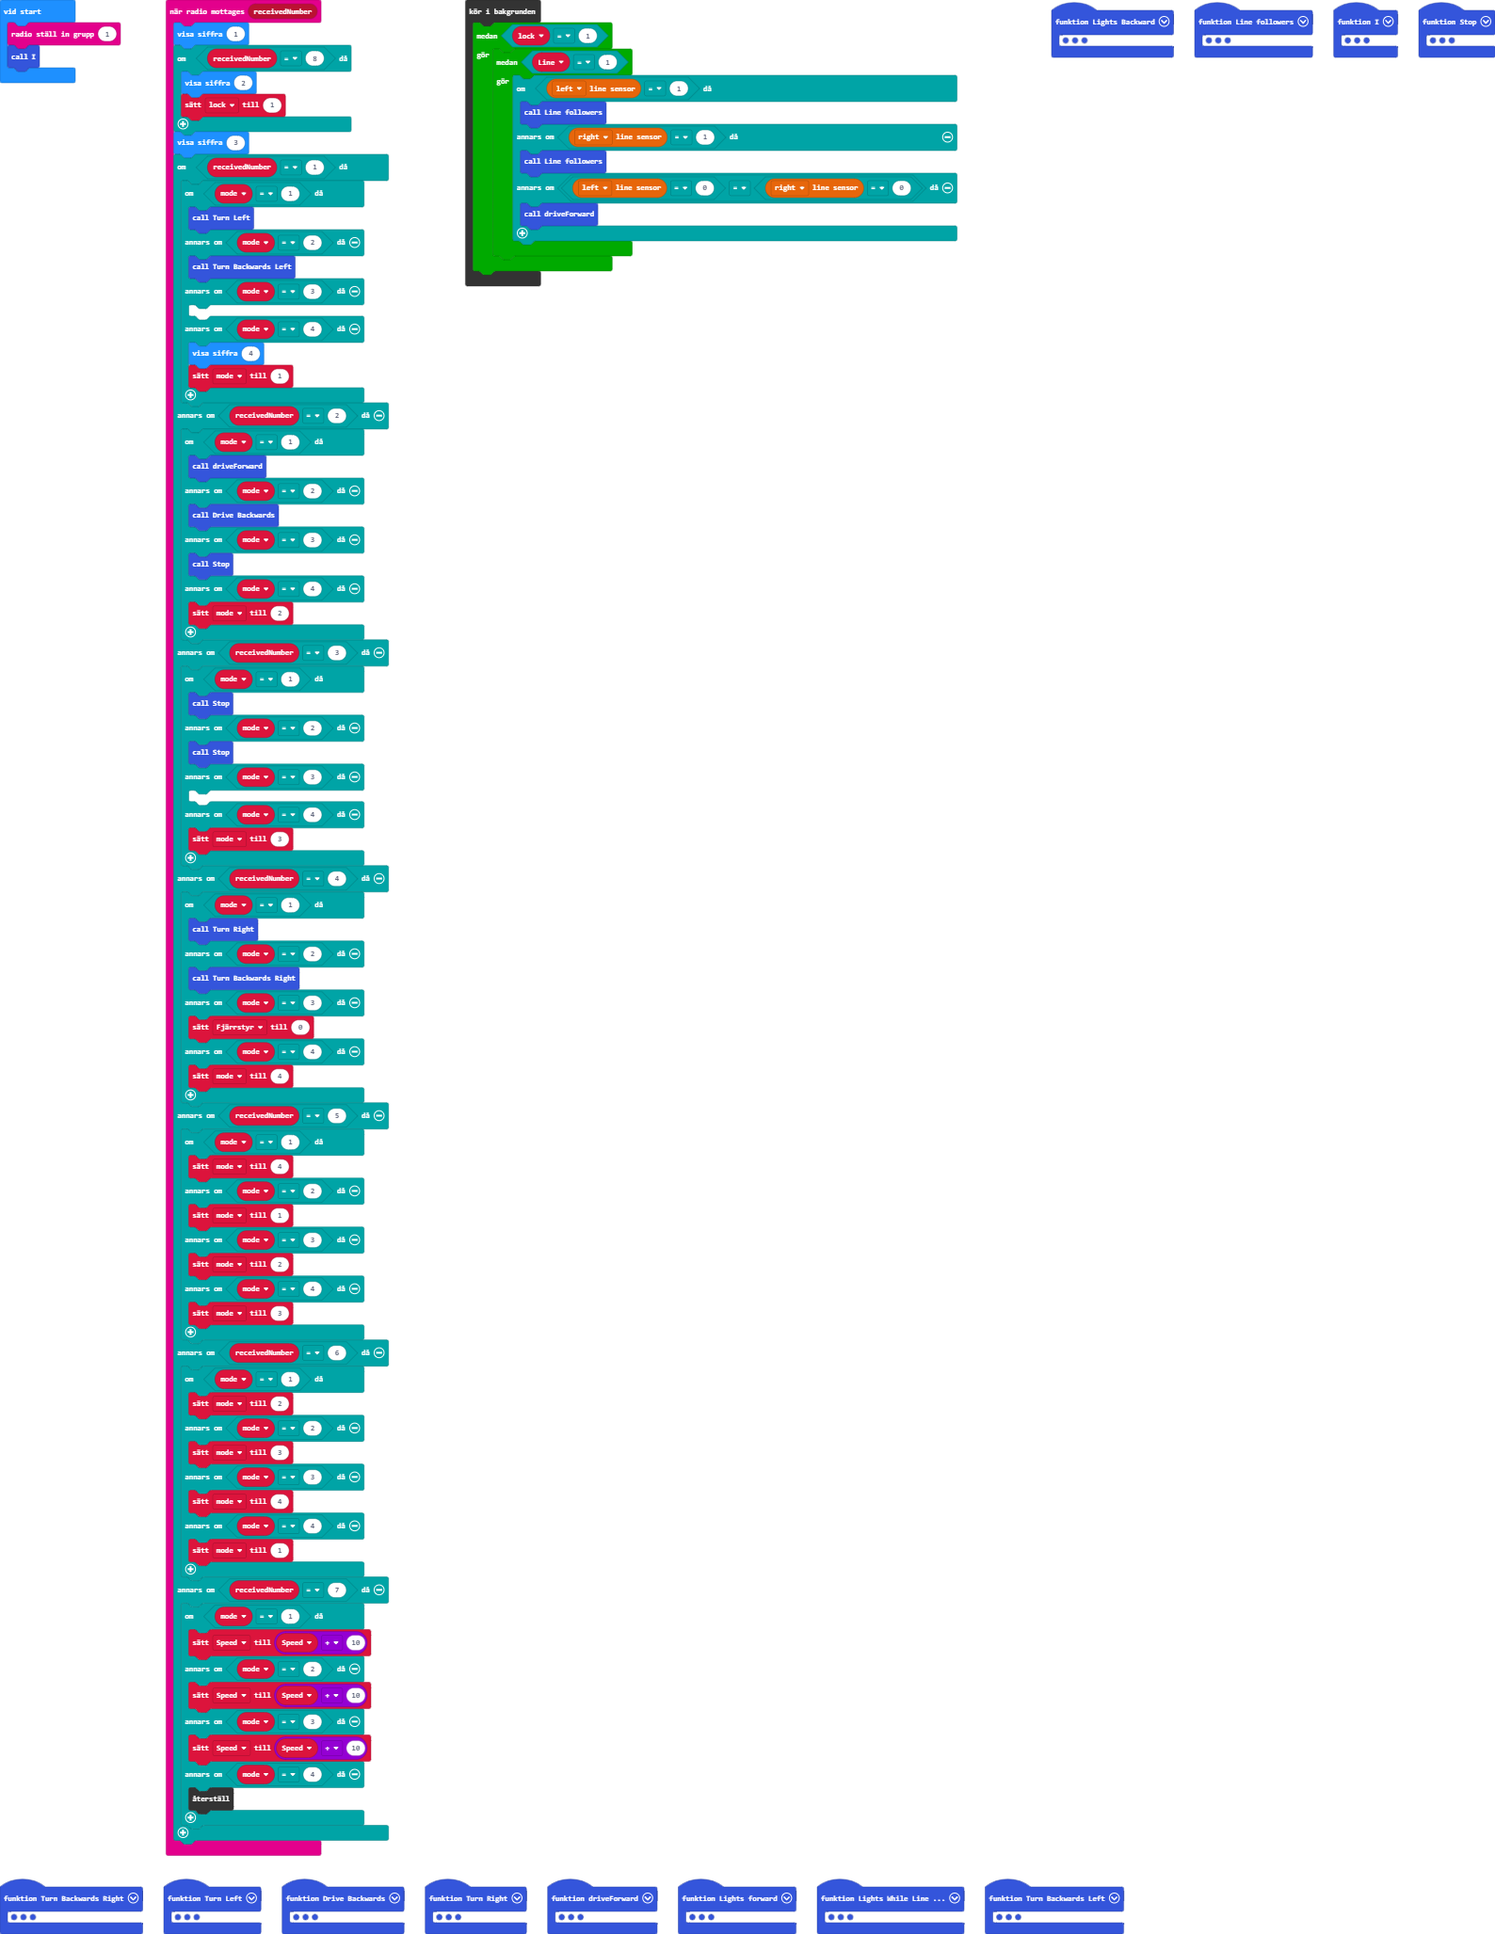
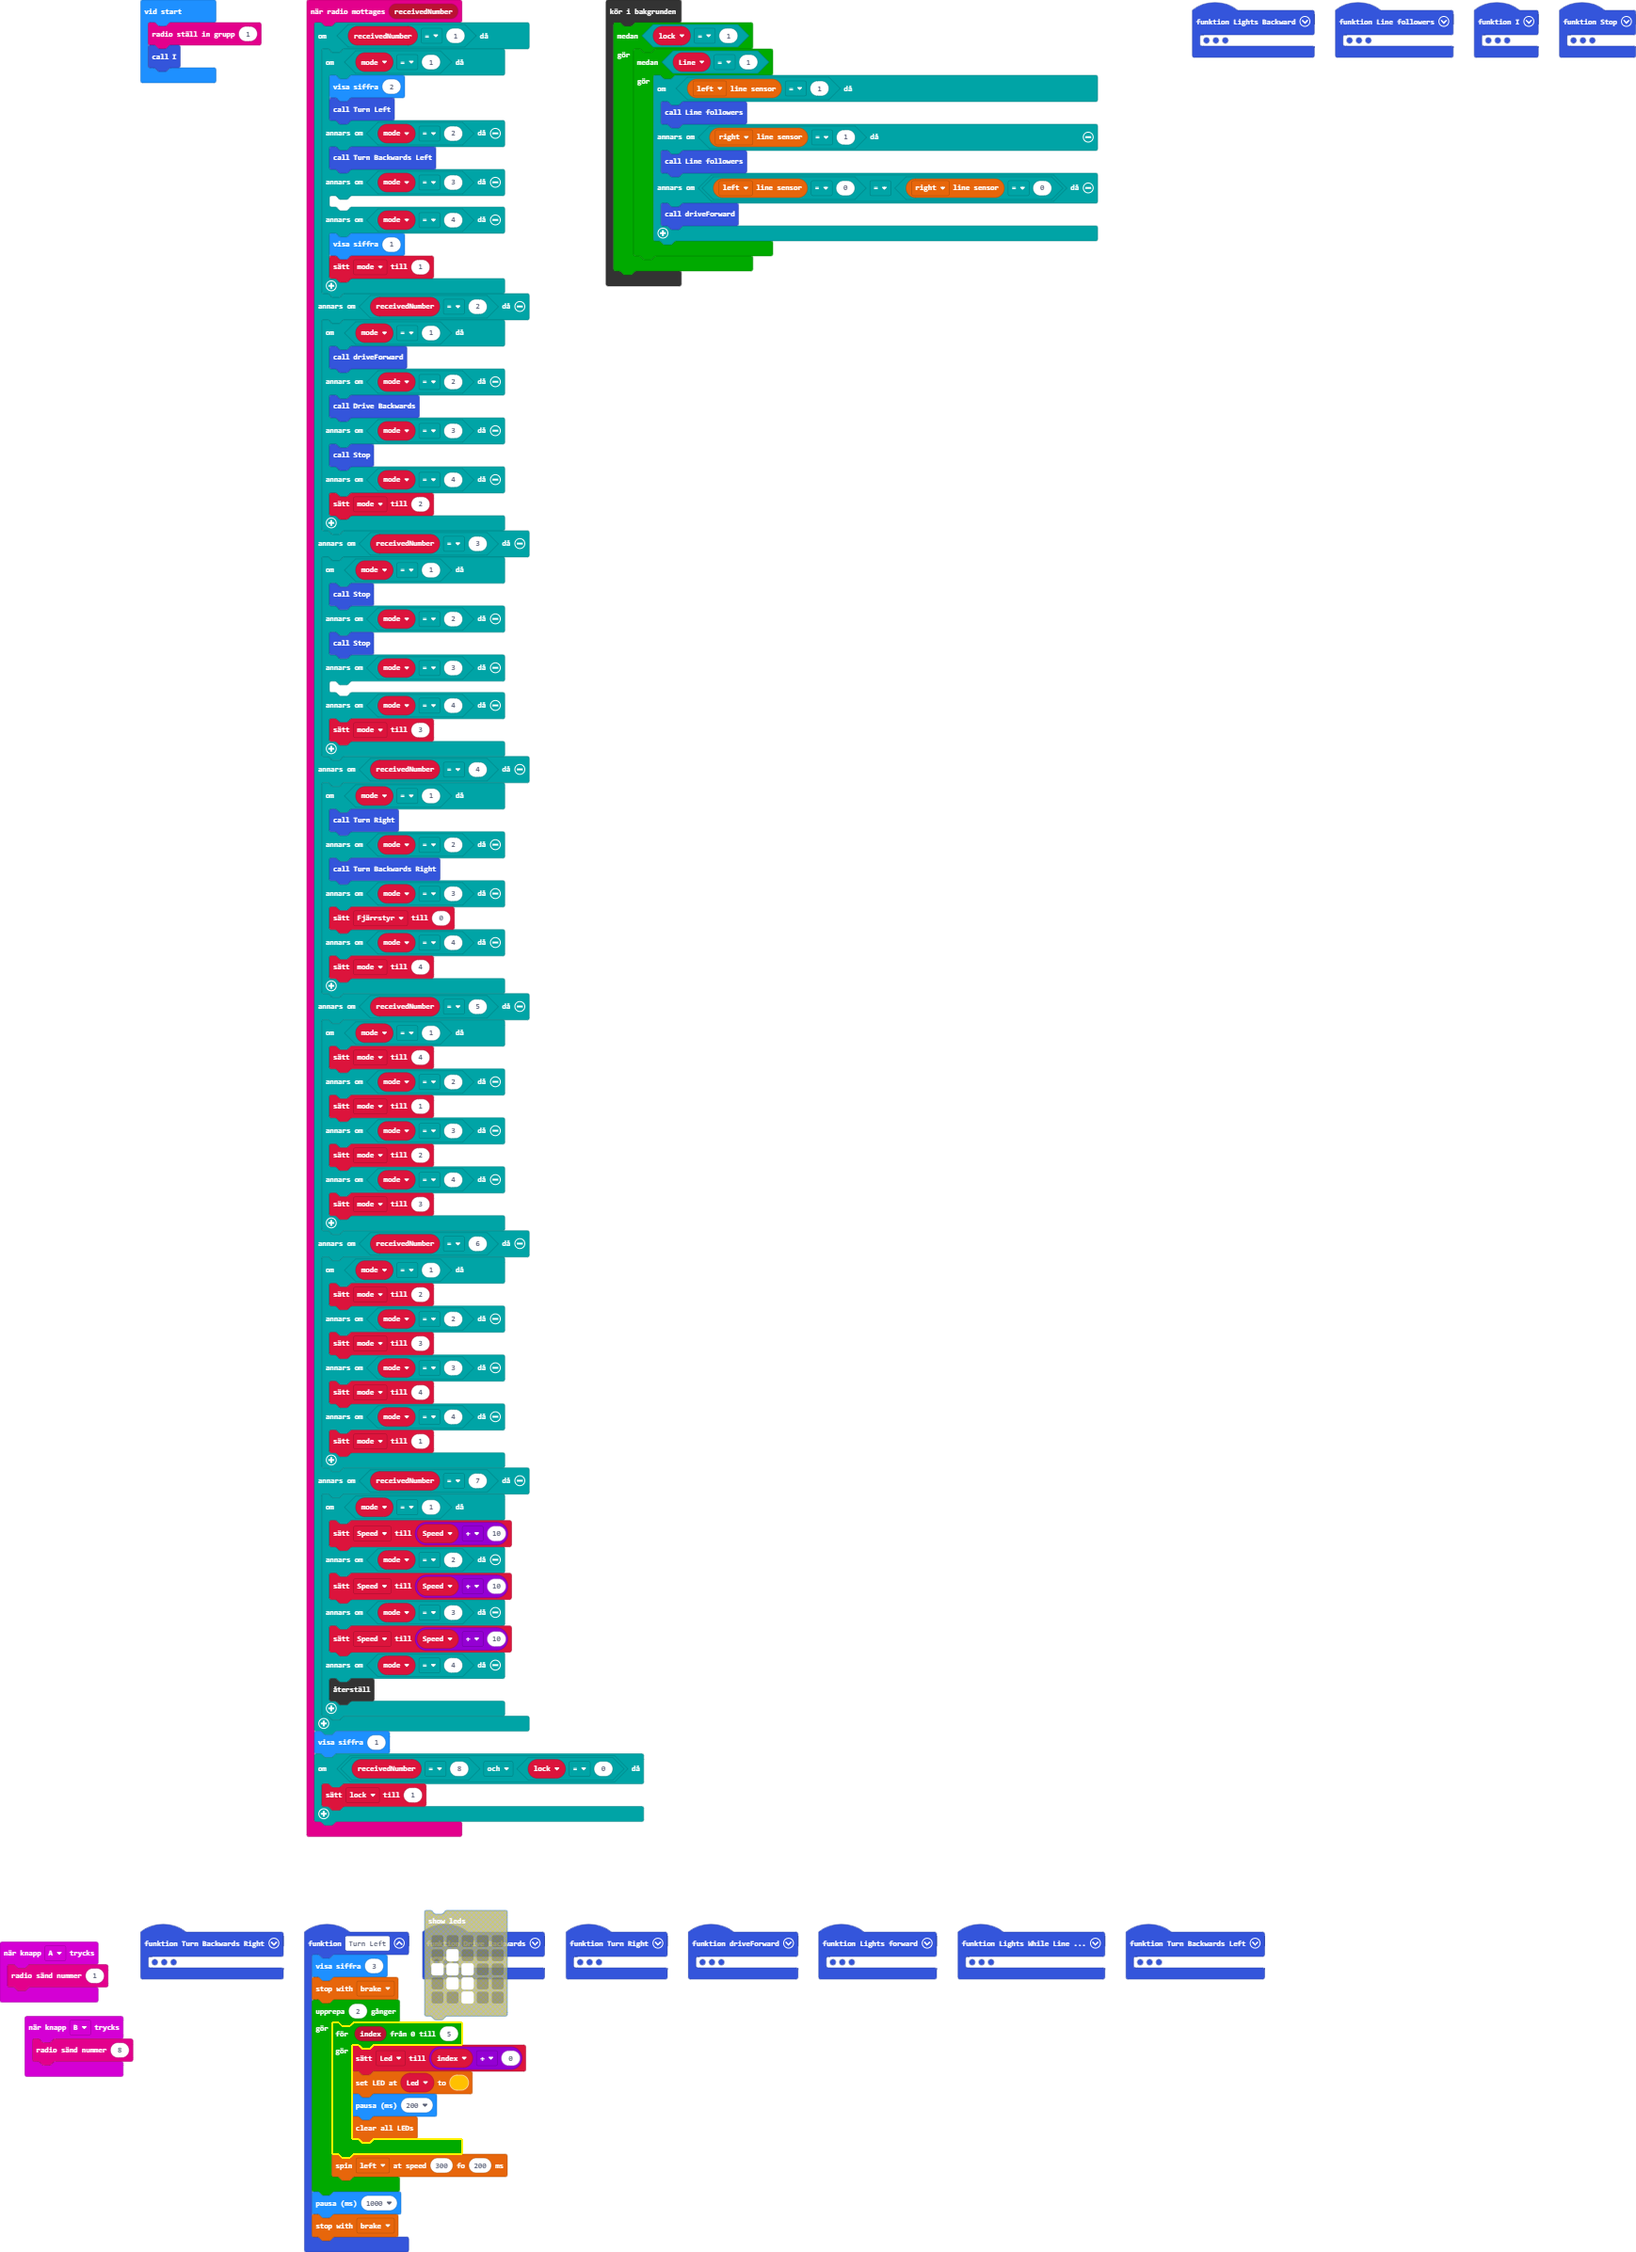
Update main.blocks, main.ts

Changed region(s): [[0.0, 0.0, 0.7714, 1.0], [0.6788, 0.0, 1.0, 0.0311]]

diff --git a/main.ts b/main.ts
@@ -44,21 +44,16 @@ function Turn_Backwards_Right () {
     bitbot.stop(BBStopMode.Brake)
 }
 radio.onReceivedNumber(function (receivedNumber) {
-    basic.showNumber(1)
-    if (receivedNumber == 8) {
-        basic.showNumber(2)
-        lock = 1
-    }
-    basic.showNumber(3)
     if (receivedNumber == 1) {
         if (mode == 1) {
+            basic.showNumber(2)
             Turn_Left()
         } else if (mode == 2) {
             Turn_Backwards_Left()
         } else if (mode == 3) {
         	
         } else if (mode == 4) {
-            basic.showNumber(4)
+            basic.showNumber(1)
             mode = 1
         }
     } else if (receivedNumber == 2) {
@@ -122,6 +117,10 @@ radio.onReceivedNumber(function (receivedNumber) {
             control.reset()
         }
     }
+    basic.showNumber(1)
+    if (receivedNumber == 8 && lock == 0) {
+        lock = 1
+    }
 })
 function Lights_Backward () {
     for (let index = 0; index < 2; index++) {
@@ -179,6 +178,9 @@ function Lights_forward () {
         bitbot.ledClear()
     }
 }
+input.onButtonPressed(Button.A, function () {
+    radio.sendNumber(1)
+})
 function Line_followers () {
     while (true) {
         if (bitbot.readLine(BBLineSensor.Left) == 1) {
@@ -193,15 +195,9 @@ function Line_followers () {
     }
 }
 function Turn_Left () {
+    basic.showNumber(3)
     bitbot.stop(BBStopMode.Brake)
     for (let index = 0; index < 2; index++) {
-        basic.showLeds(`
-            . . . . .
-            . # . . .
-            # # # . .
-            . # # . .
-            . . # . .
-            `)
         for (let index = 0; index <= 5; index++) {
             Led = index + 0
             bitbot.setPixelColor(Led, 0xFFC000)
@@ -227,6 +223,9 @@ function I () {
     mode = 4
     Line = 0
 }
+input.onButtonPressed(Button.B, function () {
+    radio.sendNumber(8)
+})
 function driveForward () {
     Lights_forward()
     basic.pause(100)
@@ -292,10 +291,10 @@ let Drive_Forwords_Left = 0
 let Drive_Backwards_Rights = 0
 let Backwards = 0
 let Drive_Backwards_Left = 0
+let lock = 0
 let Speed = 0
 let Fjärrstyr = 0
 let mode = 0
-let lock = 0
 let Led = 0
 radio.setGroup(1)
 I()
